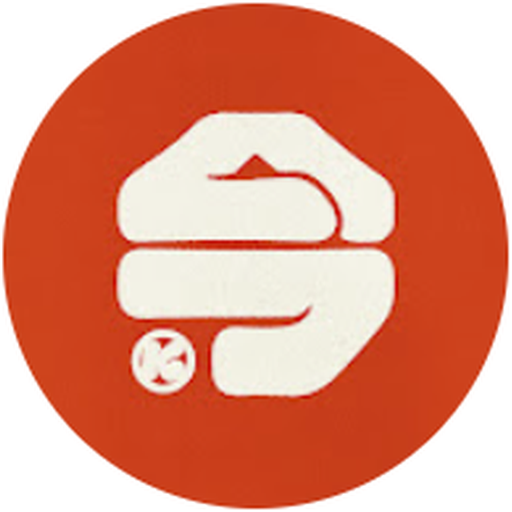
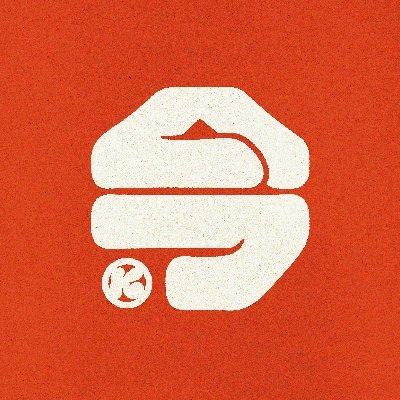
本家ロゴに差し替え、オープニングのロゴ縁のリングを解消
- public/icon.pngを本家の正方形ロゴ画像に差し替え(余白なしでキャンバスいっぱいに描画済み)
- IntroLoaderのロゴをnext/image(サーバー側リサイズで縁にシャープニングの色ズレが発生)から素のimgタグに変更し、円形クロップ時のリングをなくす

diff --git a/src/components/intro-loader.tsx b/src/components/intro-loader.tsx
@@ -1,7 +1,6 @@
 "use client";
 
 import { motion, useReducedMotion } from "motion/react";
-import Image from "next/image";
 import { useEffect, useState } from "react";
 
 export function IntroLoader() {
@@ -43,8 +42,13 @@ export function IntroLoader() {
         animate={{ opacity: phase === "reveal" ? 0 : 1 }}
         transition={{ duration: 0.25 }}
       >
-        <span className="relative block h-16 w-16 animate-pulse overflow-hidden rounded-full sm:h-20 sm:w-20">
-          <Image src="/icon.png" alt="今日ポケ" fill priority sizes="80px" className="object-cover" />
+        <span className="relative block h-16 w-16 overflow-hidden rounded-full sm:h-20 sm:w-20">
+          {/* eslint-disable-next-line @next/next/no-img-element */}
+          <img
+            src="/icon.png"
+            alt="今日ポケ"
+            className="h-full w-full object-cover"
+          />
         </span>
         <span className="animate-pulse text-xs font-bold tracking-[0.3em] text-[#f4ede4] uppercase">
           KYOU POKE
